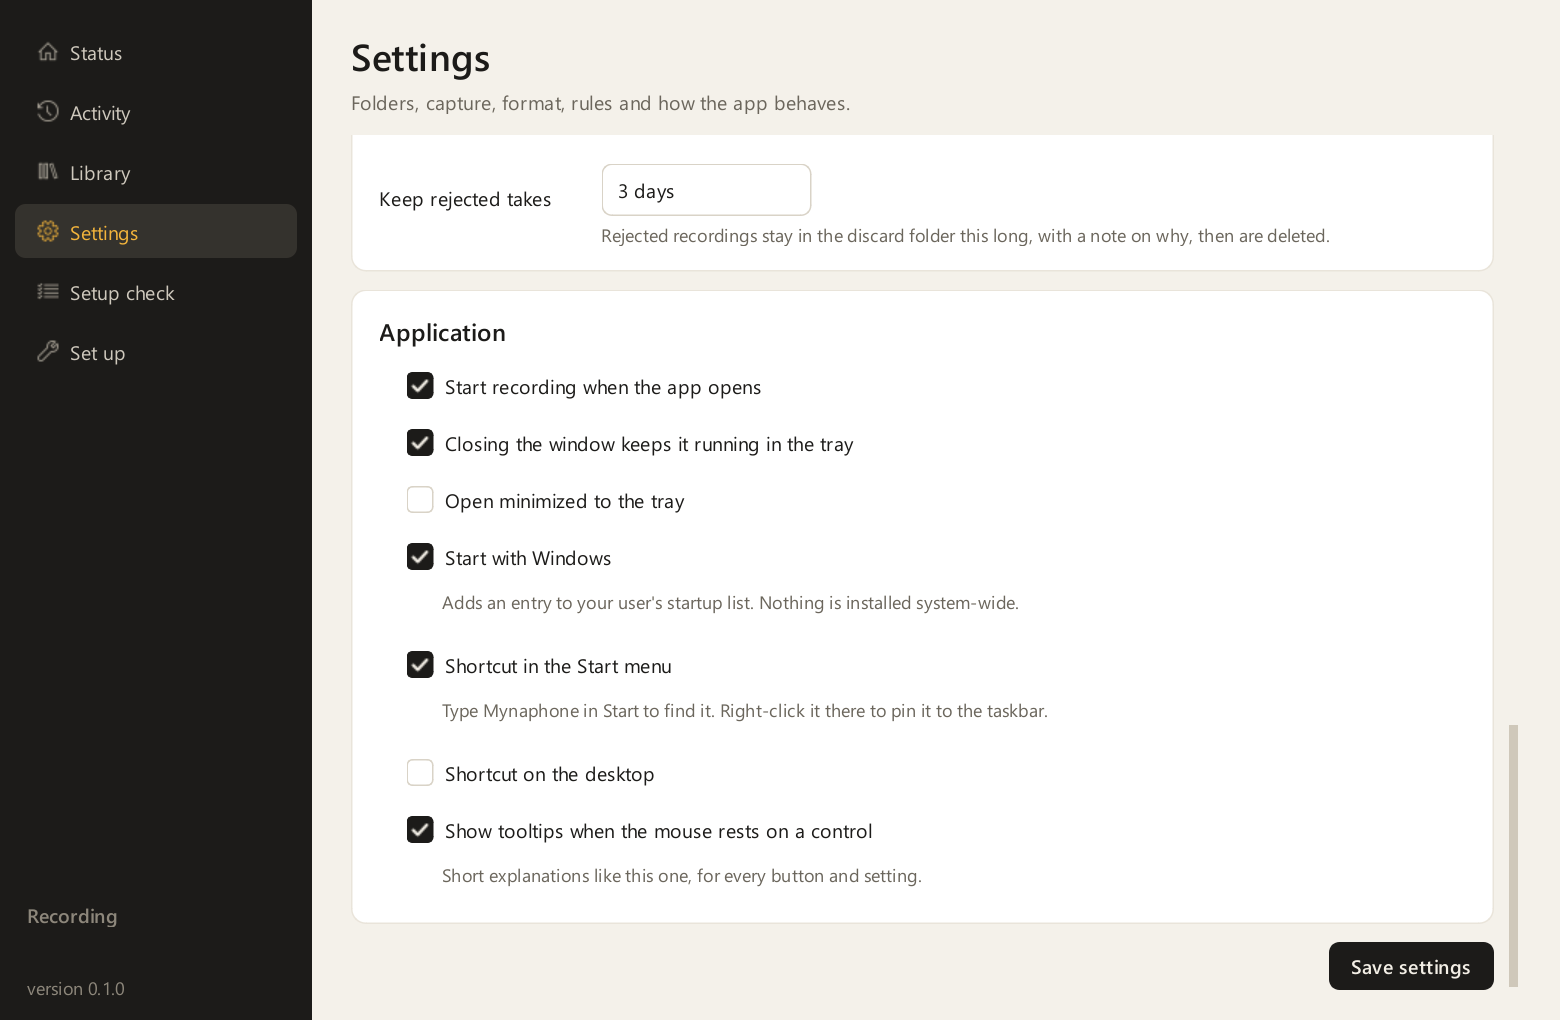
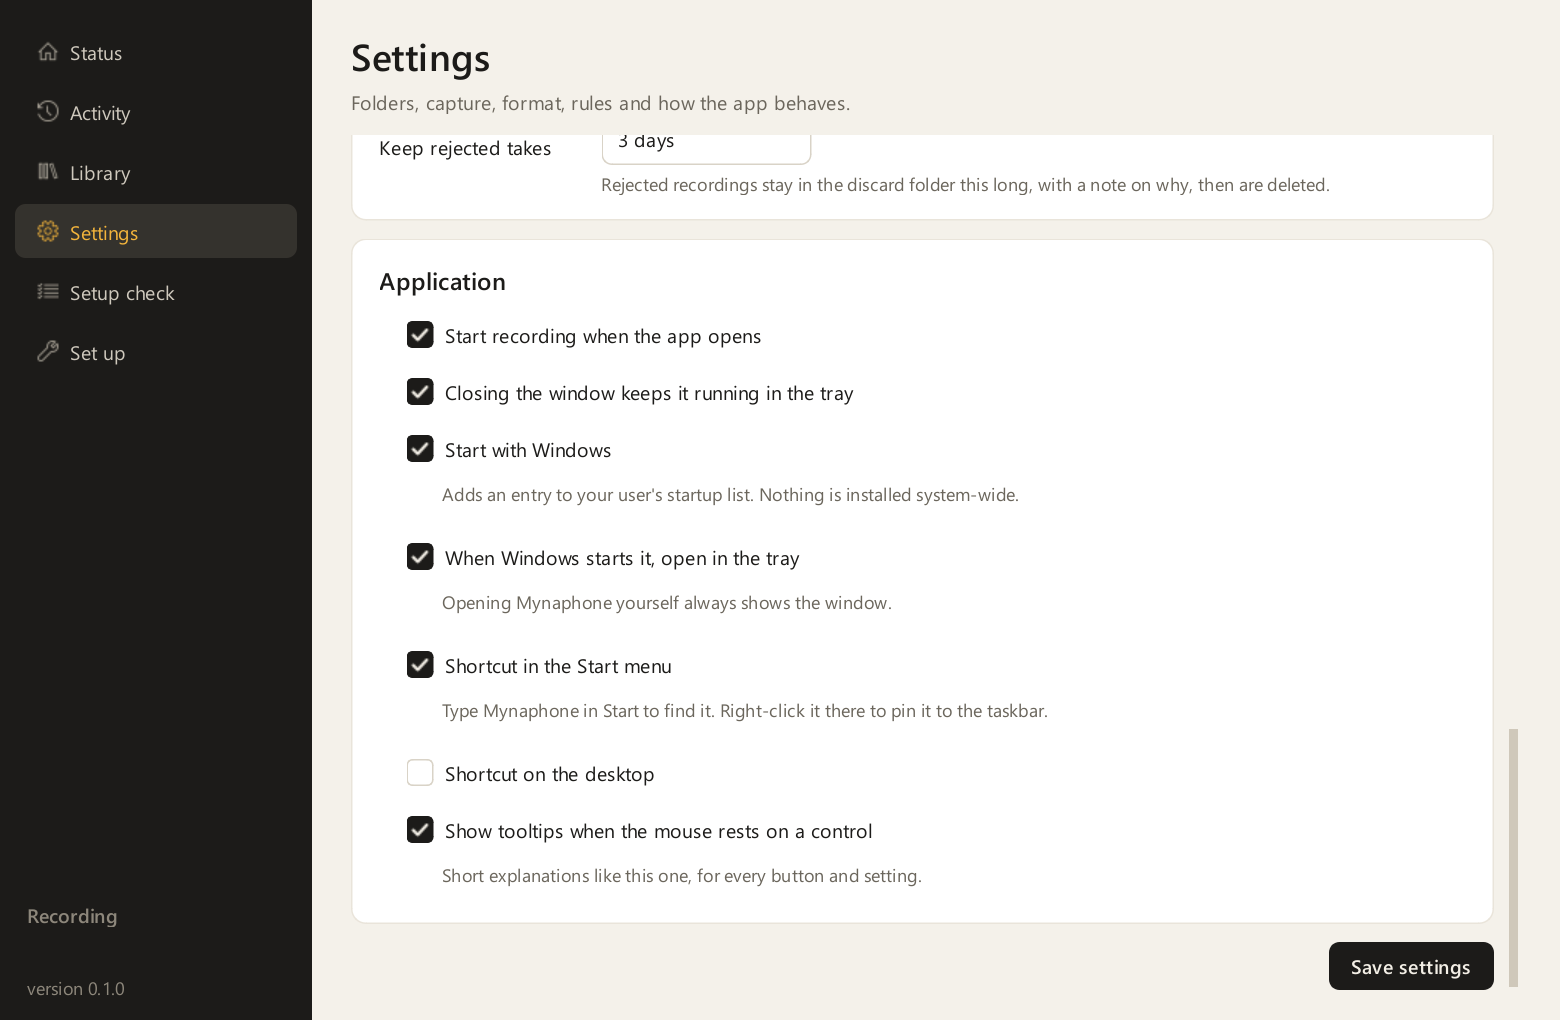
Show the window whenever Mynaphone is opened by hand
With "Open minimized to the tray" ticked, every launch started hidden,
the desktop and Start menu shortcuts included, so opening Mynaphone
showed nothing. The tray icon didn't help: Windows tucks new tray icons
under the ^ by the clock, so closing the window seemed to make the app
vanish.

Only Start with Windows opens it in the tray now, and the setting says
so: "When Windows starts it, open in the tray", placed under Start with
Windows and available only with it. It's on by default, as the startup
entry always asked for the tray. The message shown the first time the
window closes to the tray says the icon may be under the ^ arrow.

diff --git a/mynaphone/gui/app.py b/mynaphone/gui/app.py
@@ -720,9 +720,12 @@ class SettingsPage(QScrollArea):
         form = self._form()
         self.ck_autostart = self._check(form, "Start recording when the app opens", cfg.app.autostart_recording)
         self.ck_tray = self._check(form, "Closing the window keeps it running in the tray", cfg.app.close_to_tray)
-        self.ck_minimized = self._check(form, "Open minimized to the tray", cfg.app.start_minimized)
         self.ck_login = self._check(form, "Start with Windows", win.login_item_present(),
                                     "Adds an entry to your user's startup list. Nothing is installed system-wide.")
+        self.ck_minimized = self._check(form, "When Windows starts it, open in the tray", cfg.app.start_minimized,
+                                        "Opening Mynaphone yourself always shows the window.")
+        self.ck_minimized.setEnabled(self.ck_login.isChecked())
+        self.ck_login.toggled.connect(self.ck_minimized.setEnabled)
         self.ck_start_menu = self._check(form, "Shortcut in the Start menu", shortcuts.has_shortcut("start_menu"),
                                          "Type Mynaphone in Start to find it. "
                                          "Right-click it there to pin it to the taskbar.")
@@ -1168,7 +1171,7 @@ class MainWindow(QMainWindow):
             s.saved.setText("Saved.")
 
     def _login_command(self) -> str:
-        return shortcuts.login_command(self.config_path)
+        return shortcuts.login_command(self.config_path, minimized=self.cfg.app.start_minimized)
 
     def login_item_present(self) -> bool:
         try:
@@ -1551,8 +1554,10 @@ class MainWindow(QMainWindow):
         self.hide()
         if not self._tray_hint_shown:
             self._tray_hint_shown = True
-            self.tray.showMessage("Mynaphone", "Still running. Click the tray icon to open the window.",
-                                  QSystemTrayIcon.Information, 3000)
+            # Windows hides new tray icons under the ^ by the clock, so say where this one went
+            self.tray.showMessage("Mynaphone is still running",
+                                  "Its tray icon may be under the ^ arrow by the clock. Drag it next to the clock "
+                                  "to keep it in view.", QSystemTrayIcon.Information, 5000)
 
     def closeEvent(self, event) -> None:
         if self._quitting:
@@ -1646,8 +1651,8 @@ def run_gui(config_path: Path, minimized: bool = False) -> int:
     dev_shots = bool(os.environ.get("MYNAPHONE_SHOT_DIR"))
     if not dev_shots and _already_running():
         return 0
-    cfg = Config.load(config_path)
-    win = MainWindow(config_path, start_minimized=minimized or cfg.app.start_minimized)
+    # only Start with Windows asks for the tray; opened by hand, the window shows (it used to open hidden too)
+    win = MainWindow(config_path, start_minimized=minimized)
     if not dev_shots:
         from PySide6.QtNetwork import QLocalServer
         QLocalServer.removeServer(INSTANCE_NAME)

diff --git a/tests/test_gui.py b/tests/test_gui.py
@@ -385,12 +385,50 @@ def test_start_with_windows_command_opens_the_window(window, monkeypatch):
     import mynaphone.__main__ as cli
     seen = []
     monkeypatch.setattr(cli, "cmd_gui", lambda args: seen.append((args.config, args.minimized)) or 0)
-    words = [w.strip('"') for w in shlex.split(window._login_command(), posix=False)]
-    assert words[1:3] == ["-m", "mynaphone"]
-    assert cli.main(words[3:]) == 0
+    for in_tray in (True, False):           # "When Windows starts it, open in the tray"
+        window.cfg.app.start_minimized = in_tray
+        words = [w.strip('"') for w in shlex.split(window._login_command(), posix=False)]
+        assert words[1:3] == ["-m", "mynaphone"]
+        assert cli.main(words[3:]) == 0
     old = ["gui", "--config", str(window.config_path), "--minimized"]      # as earlier versions wrote it
     assert cli.main(old) == 0
-    assert seen == [(str(window.config_path), True)] * 2
+    assert seen == [(str(window.config_path), True), (str(window.config_path), False),
+                    (str(window.config_path), True)]
+
+
+def test_opening_the_app_by_hand_shows_the_window(qapp, gui_config, monkeypatch):
+    """With "Open minimized to the tray" ticked, the desktop shortcut started Mynaphone hidden, and opening it
+    showed nothing (21 October 2026). Only Start with Windows, which passes --minimized, opens it in the tray."""
+    from PySide6.QtCore import QObject
+
+    import mynaphone.gui.app as A
+    gui_config.write_text(gui_config.read_text(encoding="utf-8").replace("start_minimized = false",
+                                                                         "start_minimized = true"), encoding="utf-8")
+    opened = []
+
+    class FakeWindow(QObject):
+        def __init__(self, config_path, start_minimized=False):
+            super().__init__()
+            opened.append(start_minimized)
+
+        def show_from_tray(self):
+            pass
+
+    monkeypatch.setattr(A, "MainWindow", FakeWindow)
+    monkeypatch.setattr(qapp, "exec", lambda: 0)
+    for minimized in (False, True):
+        # a name of its own, so the test never reaches the Mynaphone running on this PC
+        monkeypatch.setattr(A, "INSTANCE_NAME", f"mynaphone-test-open-{os.getpid()}-{minimized}")
+        assert A.run_gui(gui_config, minimized=minimized) == 0
+    assert opened == [False, True]
+
+
+def test_tray_at_sign_in_is_a_start_with_windows_option(window):
+    s = window.settings
+    s.ck_login.setChecked(True)
+    assert s.ck_minimized.isEnabled()
+    s.ck_login.setChecked(False)
+    assert not s.ck_minimized.isEnabled()
 
 
 def test_start_menu_shortcut_opens_the_window_and_shares_its_taskbar_button(window, tmp_path, monkeypatch):

diff --git a/mynaphone/config.py b/mynaphone/config.py
@@ -80,7 +80,7 @@ class Identify:
 
 @dataclass
 class App:
-    start_minimized: bool = False
+    start_minimized: bool = True        # when Windows starts the app; opened by hand, the window always shows
     close_to_tray: bool = True
     autostart_recording: bool = True
     show_tooltips: bool = True
@@ -249,6 +249,7 @@ lastfm_api_key = {lastfm_api_key}
 apple_country = {apple_country}
 
 [app]
+# With Start with Windows on, open hidden in the tray at sign-in. Opening it yourself always shows the window.
 start_minimized = {start_minimized}
 close_to_tray = {close_to_tray}
 autostart_recording = {autostart_recording}

diff --git a/mynaphone/shortcuts.py b/mynaphone/shortcuts.py
@@ -79,9 +79,9 @@ def gui_arguments(config_path: Path, minimized: bool = False) -> str:
     return f"{args} --minimized" if minimized else args
 
 
-def login_command(config_path: Path) -> str:
-    """The Start with Windows entry, which opens the app in the tray."""
-    return f'"{interpreter()}" {gui_arguments(config_path, minimized=True)}'
+def login_command(config_path: Path, minimized: bool = True) -> str:
+    """The Start with Windows entry, which opens the app in the tray unless told otherwise."""
+    return f'"{interpreter()}" {gui_arguments(config_path, minimized=minimized)}'
 
 
 def set_app_id() -> None:

diff --git a/CHANGELOG.md b/CHANGELOG.md
@@ -51,7 +51,7 @@ All notable changes to Mynaphone are listed here. The format follows
 - Items longer than 15 minutes (podcasts, mixes) are skipped; the limit is a setting.
 - Tooltips on every control, with a switch in Settings to turn them off.
 - Security page and security policy; system requirements and a "what it works with" table in the README.
-- Test suite (141 tests).
+- Test suite (143 tests).
 - GitHub Actions runs the tests on Windows with Python 3.11 and 3.13 and checks the code with Ruff.
 - Issue and pull request templates.
 - A code of conduct based on the Contributor Covenant 2.1.
@@ -80,6 +80,11 @@ All notable changes to Mynaphone are listed here. The format follows
   `SUPPORT.md` says where to get help.
 
 ### Fixed
+- Opening Mynaphone from its shortcut could show nothing. With **Open minimized to the tray** ticked
+  it started hidden in the tray, where Windows had tucked its icon under the ^ arrow by the clock.
+  Opening it yourself now always shows the window; the setting, renamed **When Windows starts it,
+  open in the tray**, applies only to Start with Windows. When the window first closes to the tray,
+  the message says the icon may be under the ^ arrow.
 - Songs of 45 to 65 seconds that AcoustID didn't know stayed in the inbox for good. The second
   fingerprint started 45 seconds in, where such a song has almost nothing left, and the error was
   taken as identification being unavailable. A short song's second fingerprint now starts a third of

diff --git a/docs/install.md b/docs/install.md
@@ -190,16 +190,18 @@ extension that didn't come from the store.
 ## Step 10: Choose how it starts
 
 1. Open **Settings** and scroll to **Application**.
-2. Tick **Start with Windows** to launch Mynaphone hidden in the tray when you sign in. This adds an
-   entry to your user's startup list and nothing system-wide.
+2. Tick **Start with Windows** to launch Mynaphone when you sign in. This adds an entry to your
+   user's startup list and nothing system-wide. With **When Windows starts it, open in the tray**
+   ticked, as it is at first, it starts hidden in the tray.
 3. Tick **Shortcut in the Start menu** to open Mynaphone without PowerShell: type Mynaphone in Start,
    or right-click it there and select **Pin to taskbar**. **Shortcut on the desktop** adds a desktop
    icon as well.
 4. Leave **Start recording when the app opens** ticked, so the recorder listens as soon as it starts.
 5. Select **Save settings**.
 
-Opening Mynaphone while it's running brings its window back. With **Open minimized to the tray**
-ticked, the shortcut starts it in the tray, and opening it a second time shows the window.
+Opening Mynaphone yourself always shows its window, and brings the window back if it's already
+running. Closing the window keeps it running in the tray. Windows may tuck the tray icon under the
+**^** arrow by the clock; drag it next to the clock to keep it in view.
 
 You're ready. [Record your first song](first-song.md) shows what happens next.
 

diff --git a/docs/settings.md b/docs/settings.md
@@ -107,8 +107,8 @@ These are set on the **Set up** page or in the file.
 |---|---|---|---|
 | **Start recording when the app opens** | `autostart_recording` | `true` | Start listening as soon as the app opens. |
 | **Closing the window keeps it running in the tray** | `close_to_tray` | `true` | Closing the window keeps the recorder running in the tray. |
-| **Open minimized to the tray** | `start_minimized` | `false` | Open hidden in the tray. |
 | **Start with Windows** | None | Off | Adds or removes a value named `Mynaphone` under your user's `Run` key in the registry. It isn't stored in the file. |
+| **When Windows starts it, open in the tray** | `start_minimized` | `true` | At sign-in, open hidden in the tray instead of showing the window. Opening Mynaphone yourself always shows the window. Available with **Start with Windows** ticked. |
 | **Shortcut in the Start menu** | None | Off | Adds or removes `Mynaphone.lnk` in your Start menu. Type Mynaphone in Start to open the app, or right-click it there to pin it to the taskbar. It isn't stored in the file. |
 | **Shortcut on the desktop** | None | Off | Adds or removes `Mynaphone.lnk` on your desktop. It isn't stored in the file. |
 | **Show tooltips when the mouse rests on a control** | `show_tooltips` | `true` | Show a short explanation when the mouse rests on a button or setting. |

diff --git a/docs/using.md b/docs/using.md
@@ -73,11 +73,14 @@ and discards the take.
 
 ## Keep it in the tray
 
-Closing the window hides it, and recording continues. Click the tray icon to bring it back.
+Closing the window hides it, and recording continues. Click the tray icon to bring it back. If you
+don't see the icon by the clock, it's under the **^** arrow; drag it next to the clock to keep it in
+view.
 
 - To stop completely, right-click the tray icon and select **Quit**.
-- To open hidden on start, tick **Open minimized to the tray** in Settings.
-- To launch with Windows, tick **Start with Windows** in Settings.
+- To launch with Windows, tick **Start with Windows** in Settings. It opens hidden in the tray unless
+  you untick **When Windows starts it, open in the tray**.
+- Opening Mynaphone yourself, from a shortcut or PowerShell, always shows the window.
 
 Only one copy runs at a time. Starting Mynaphone again while it's in the tray brings its window back
 instead of opening a second recorder.

diff --git a/docs/command-line.md b/docs/command-line.md
@@ -37,7 +37,8 @@ Installing the package also creates `.venv\Scripts\mynaphone.exe`, so
 ```
 
 Opens the window. `--minimized` starts it hidden in the tray, which is how **Start with Windows**
-launches it. If Mynaphone is already running, the command brings its window back instead.
+launches it while **When Windows starts it, open in the tray** is ticked. If Mynaphone is already
+running, the command brings its window back instead.
 
 ### shortcut
 
